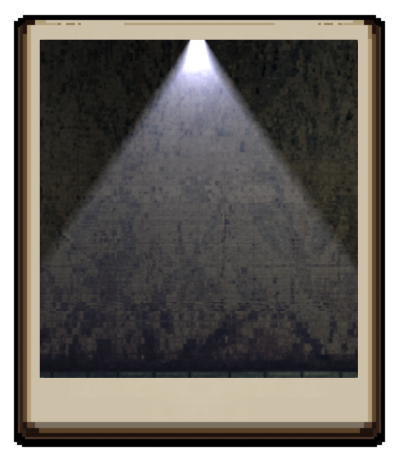
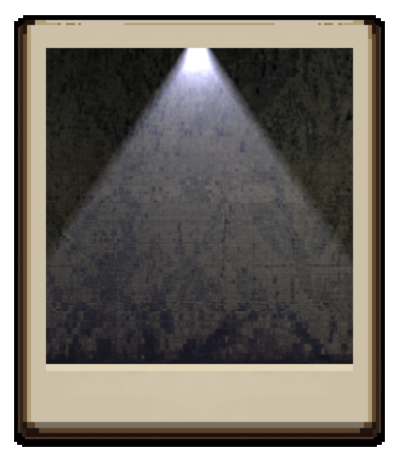
final changes... mb

Changed region(s): [[0.0905, 0.0602, 0.9045, 0.8129], [0.0302, 0.9333, 0.0603, 0.9634], [0.0302, 0.0301, 0.0603, 0.0602]]

diff --git a/EarlyBirdGetsDaWorm/Journal.cpp b/EarlyBirdGetsDaWorm/Journal.cpp
@@ -120,8 +120,8 @@ void Journal_Initialize()
     listSelected = 0.80f;
 
     // Tabs
-    TabW = 300.0f;
-    TabH = 100.0f;
+    TabW = 350.0f;
+    TabH = 120.0f;
 }
 
 // ============================================================
@@ -942,8 +942,8 @@ void Journal_Draw(AEGfxVertexList* squareMesh)
 
         DrawTextureMesh(squareMesh,
             AlertIcon,
-            (TabX + 100.0f)             * UI_SCALE,
-            (Tab1Y + 60.0f + bounceY)  * UI_SCALE,
+            (TabX + 150.0f)             * UI_SCALE,
+            (Tab1Y + 50.0f + bounceY)   * UI_SCALE,
             25.0f,
             25.0f,
             1.0f);
@@ -955,8 +955,8 @@ void Journal_Draw(AEGfxVertexList* squareMesh)
 
         DrawTextureMesh(squareMesh,
             AlertIcon,
-            (TabX + 100.0f) * UI_SCALE,
-            (Tab2Y + 60.0f + bounceY) * UI_SCALE,
+            (TabX + 150.0f)             * UI_SCALE,
+            (Tab2Y + 50.0f + bounceY)   * UI_SCALE,
             25.0f,
             25.0f,
             1.0f);
